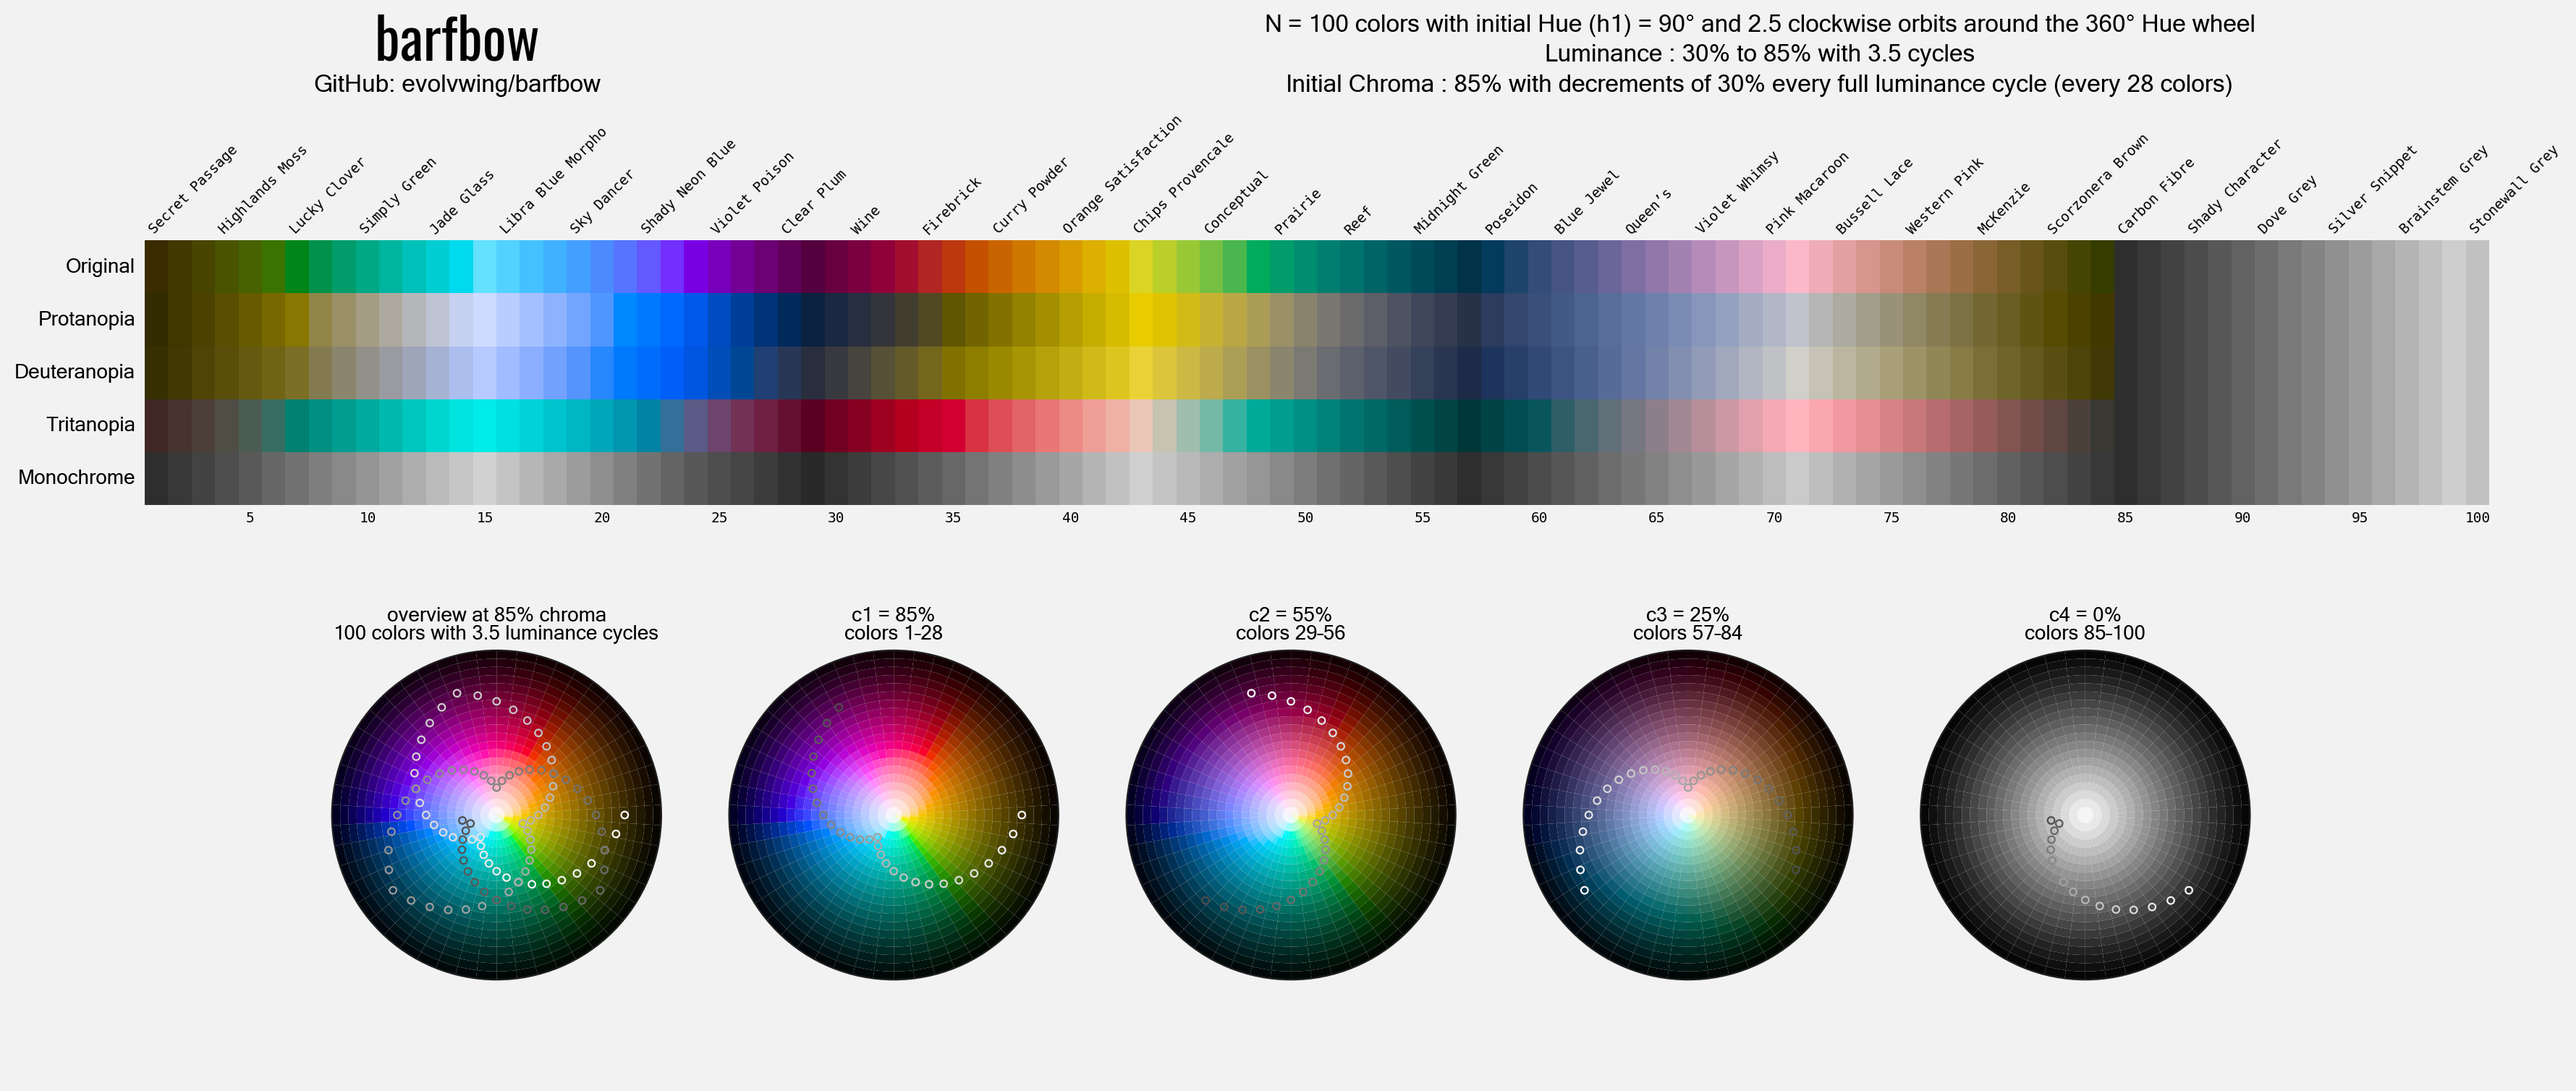
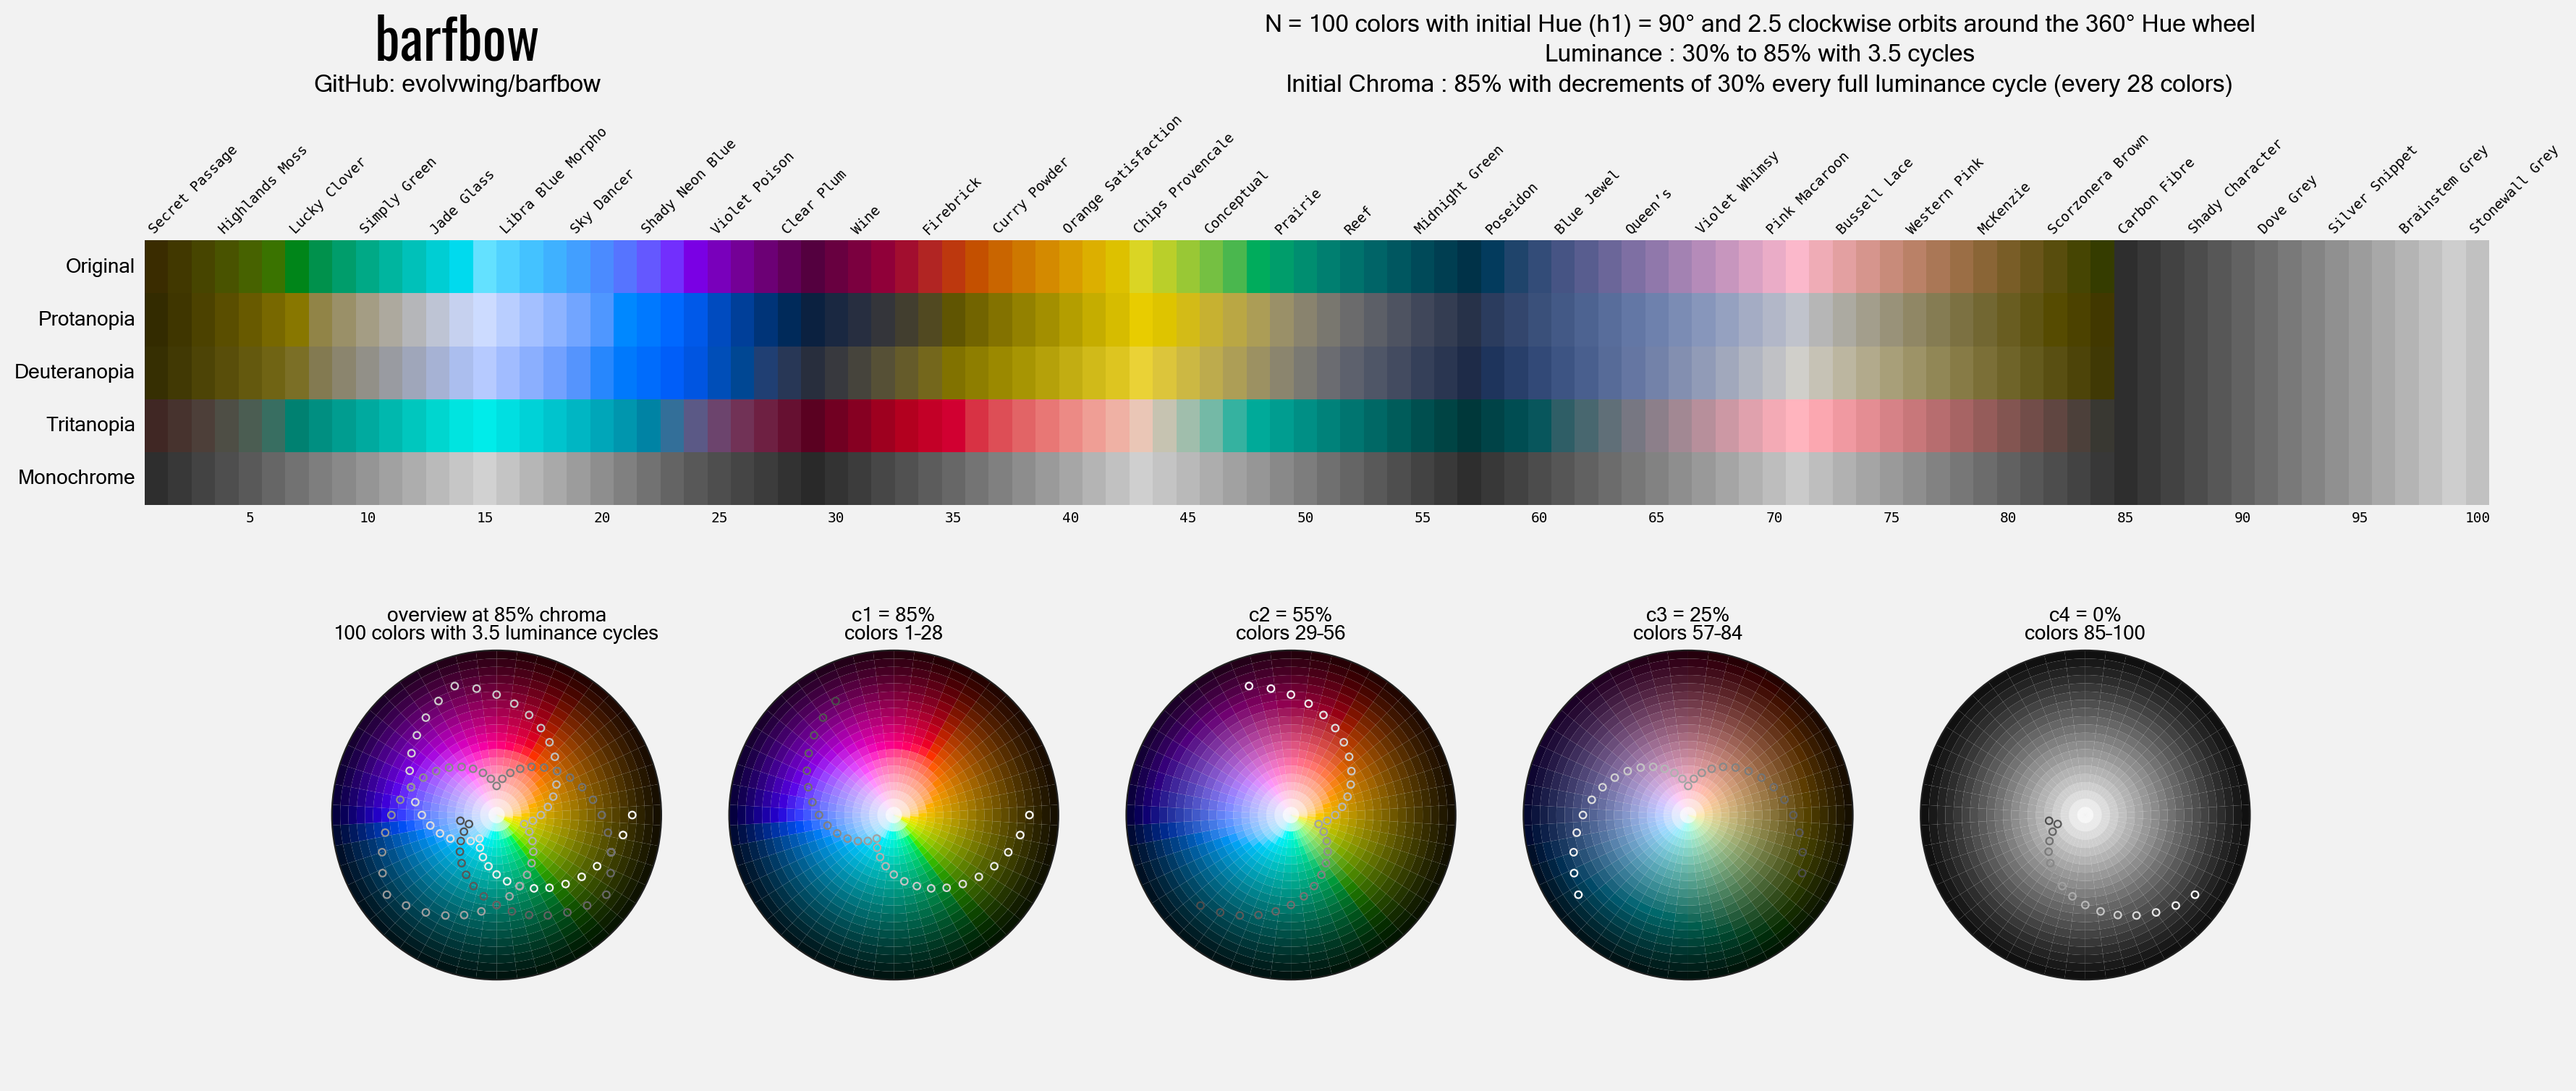
Raise wheel rim lightness to 15

diff --git a/barfbow.py b/barfbow.py
@@ -260,7 +260,7 @@ def chroma_plan(N: int, h_step: float, full_period: int, C_values: Tuple[float, 
 # -----------------------------
 # Visualization
 # -----------------------------
-WHEEL_MIN_LIGHTNESS = 10.0
+WHEEL_MIN_LIGHTNESS = 15.0
 
 def oklch_wheel_xy(lightness: float, hue: float, radius: float) -> Tuple[float, float]:
     clamped_lightness = max(WHEEL_MIN_LIGHTNESS, min(100.0, lightness))
